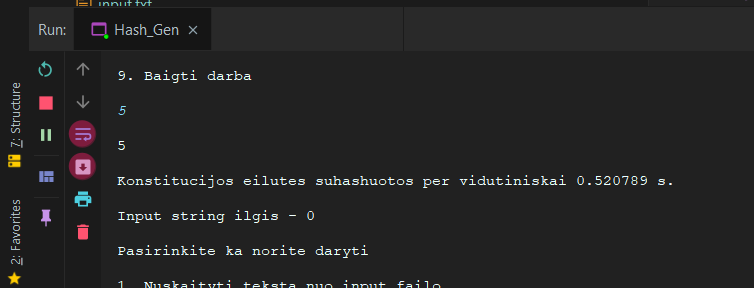
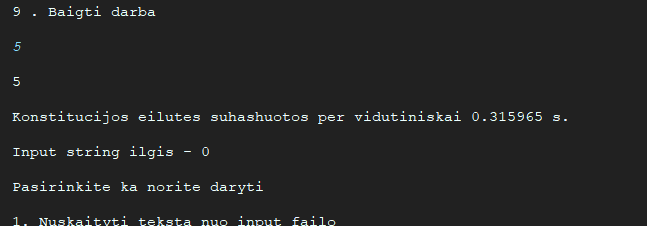
v0.1.4

diff --git a/ANALYSIS.md b/ANALYSIS.md
@@ -25,7 +25,7 @@ The requirements for the analysis can be found [here](https://github.com/blockch
 ## Results of task no. 2
 
 ![task2](Images/task2.png)
-- On average it took about 0.520789 s. for ```MindeHash``` to hash a line in ```konstitucija.txt```
+- On average it took about 0.315965 s. for ```MindeHash``` to hash a line in ```konstitucija.txt```
 ---
 ## Results of advanced comparison between SHA-256 and MindeHash
 ![advanced-comp](Images/Advanced.png)
